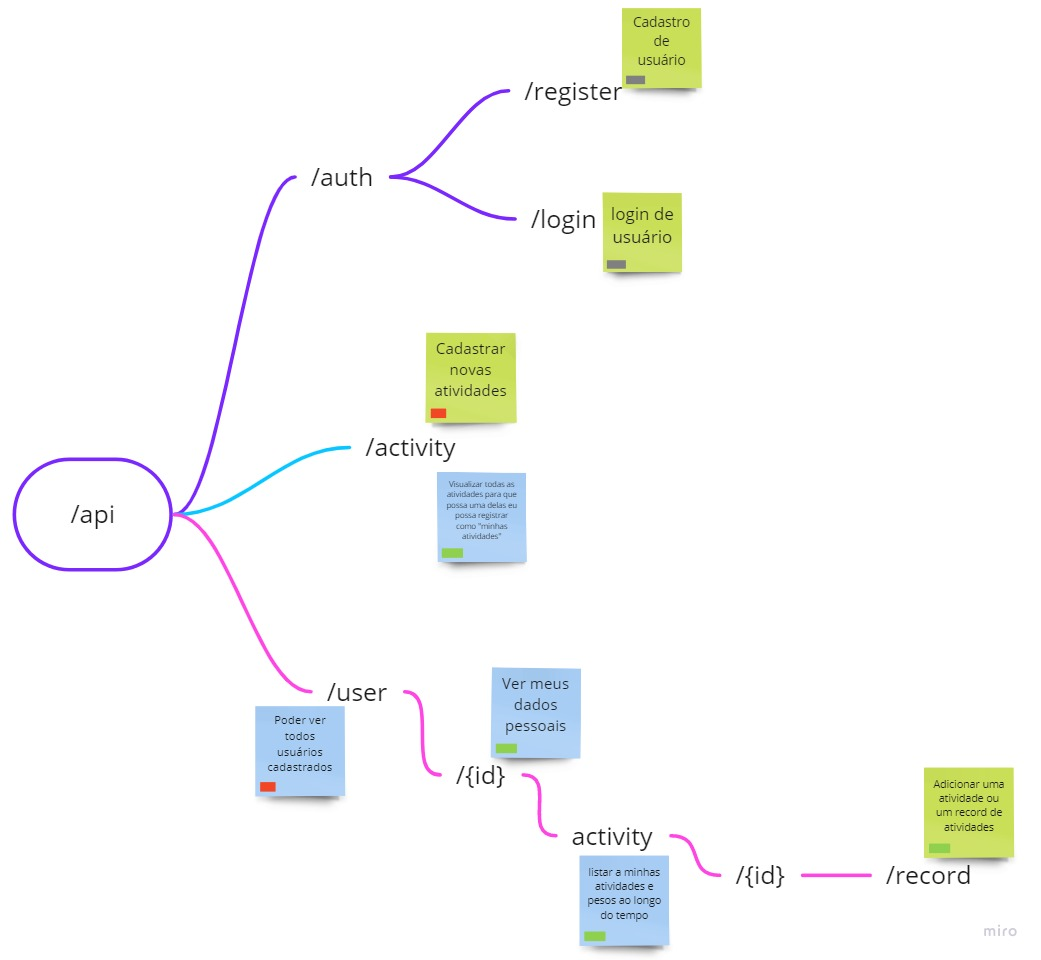
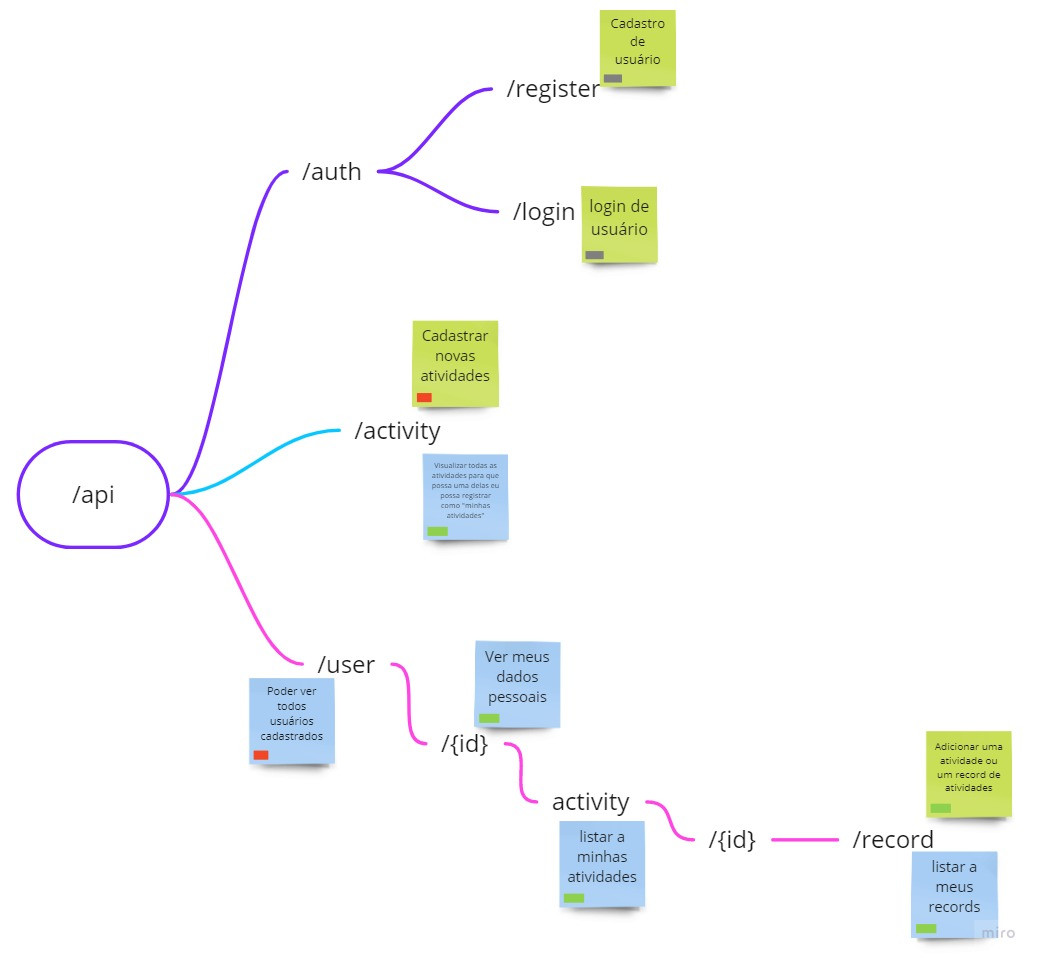
docs: add more data to readme and todo

diff --git a/README.md b/README.md
@@ -127,13 +127,13 @@ Post /api/auth/login
 { "idToken": "fs432jnj543hb-lsdsdasdsadasd-df4545" }
 ```
 
-## Adicionar registro de alteração de atividade
+## Adicionar record de atividade
 
 - Autenticação Apenas o dono do recurso,
 - Detalhes - Adicionar registro de alteração de atividade
 
 ```
-Post /api/activity/{id}/record
+Post /api/user/{userID}/activity/{id}/record
 ```
 
 ### Request
@@ -162,7 +162,7 @@ Post /api/activity/{id}/record
 - Detalhes - Listar todas as atividades do aluno
 
 ```
-Post /api/activity
+Get /api/user/{userId}/activity
 ```
 
 ### Request
@@ -175,14 +175,58 @@ sem corpo de requisição
 
 ```json
 {
-  [
+  "items": [
+    {
+      "name": "pular corda",
+      "id": "00000000-0000-0000-0000-000000000000"
+    },
+    {
+      "name": "flexão de braço",
+      "id": "00000000-0000-0000-0000-000000000000"
+    }
+  ],
+  "perPage": 2,
+  "pageNumber": 4
+}
+```
+
+## Listar todos os records de uma atividade do aluno
+
+- Autenticação Apenas o dono do recurso,
+- Detalhes - Listar todas as atividades do aluno
+
+```
+Get /api/user/{userId}/activity/{activityId}/record
+```
+
+### Request
+
+```json
+sem corpo de requisição
+```
+
+### Response 200 Ok
+
+```json
+{
+  "items": [
     {
       "userId": "00000000-0000-0000-0000-000000000000",
       "activityId": "00000000-0000-0000-0000-000000000000",
-      "weight": 20,
-      "repetition": 4
+      "weight": 0,
+      "repetition": 30,
+      "id": "00000000-0000-0000-0000-000000000000"
+    },
+    {
+      "userId": "00000000-0000-0000-0000-000000000000",
+      "activityId": "00000000-0000-0000-0000-000000000000",
+      "weight": 0,
+      "repetition": 100,
+      "id": "00000000-0000-0000-0000-000000000000"
     }
-  ]
+  ],
+  "perPage": 2,
+  "pageNumber": 4
 }
 ```
 

diff --git a/docs/todo.md b/docs/todo.md
@@ -16,7 +16,7 @@ Esse arquivo contém os passos a passos de desenvolvimento deste projeto
 - ✔ configurar createdBy createdAt
 - ✔ handler erros from fluent validation
 - ✔ Paginação
-- ❌ Repository pattern
+- ✔ Repository pattern
 
 ## ✔ Criar conta
 
@@ -75,6 +75,14 @@ Esse arquivo contém os passos a passos de desenvolvimento deste projeto
 - ✔ response
 
 ## ✔ Listar todas as atividades
+
+- ✔ controller/rota
+- ✔ mediator (comando, handler)
+- ✔ validação campos
+- ✔ autenticação
+- ✔ response
+
+## ✔ Listar todos os records do aluno
 
 - ✔ controller/rota
 - ✔ mediator (comando, handler)
